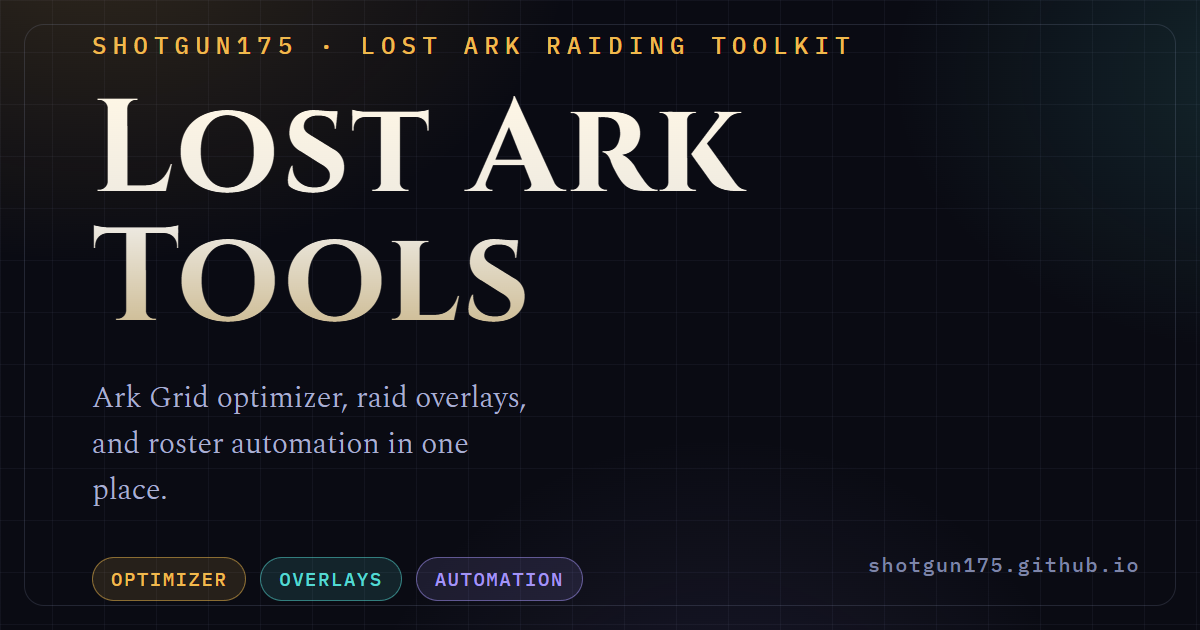
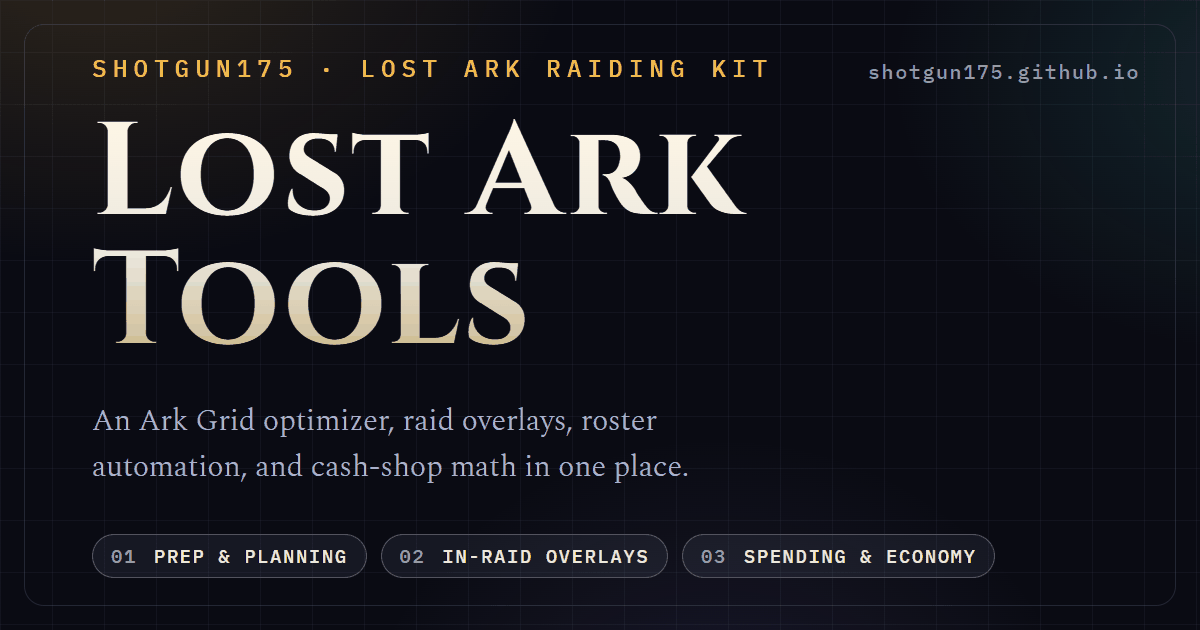
fix: work the validated audit backlog (fonts, CSP, CI, reveal, og-image)
Privacy / independence:
- Self-host the six latin font subsets under fonts/ via @user in
  styles.css (Cinzel is one variable file covering 600/700); preload the
  Cinzel file; drop the render-blocking Google Fonts stylesheet and both
  preconnects. First paint no longer depends on any third-party origin and
  no visitor IP reaches a font CDN.
- Add a Content-Security-Policy meta tag: everything same-origin, a sha256
  hash for the inline no-js/js head script, img-src data: for the film
  grain, base-uri/form-action none.

Link-check workflow:
- Replace the lookbehind grep with a comment-aware html.parser script that
  reads CTA and Source hrefs in any attribute order, skips the commented
  TILE TEMPLATE natively (no example.com filter), requires exactly one CTA
  per tile, and validates every tile's data-mode against the masthead
  legend so a typo fails CI instead of silently wearing the wrong lamp.
- Probe releases/latest links via the GitHub API (the HTML page is 200 even
  with zero releases; the API 404s), authenticated with the job token.
- Add curl retries against transient blips; trigger on push/PR touching
  index.html instead of monthly-only, since main deploys straight to
  production.
- Add permissions: contents: read, pin actions/checkout to the v6.0.3
  commit SHA, and stop persisting credentials in the checkout.

Scroll-reveal robustness:
- If enhance.js never runs after the inline script commits to .js, a CSS
[…]

diff --git a/styles.css b/styles.css
@@ -7,16 +7,67 @@
    an ember-gold + astral-cyan duotone, with console-style mono labels.
    ============================================================ */
 
+/* ---------- self-hosted fonts ----------
+   Latin woff2 subsets served from this repo (fonts/), so first paint never
+   depends on a third-party origin. The Cinzel file is a variable font covering
+   both display weights. Weights match usage below exactly:
+   Cinzel 600/700, IBM Plex Mono 400/500, Spectral 300/400 (no italics). */
+@font-face {
+  font-family: "Cinzel";
+  font-style: normal;
+  font-weight: 600 700;
+  font-display: swap;
+  src: url("fonts/cinzel-600-700.woff2") format("woff2");
+  unicode-range: U+0000-00FF, U+0131, U[phone redacted], U+02BB-02BC, U+02C6, U+02DA, U+02DC, U+0304, U+0308, U+0329, U+2000-206F, U+20AC, U+2122, U+2191, U+2193, U+2212, U+2215, U+FEFF, U+FFFD;
+}
+@font-face {
+  font-family: "IBM Plex Mono";
+  font-style: normal;
+  font-weight: 400;
+  font-display: swap;
+  src: url("fonts/ibm-plex-mono-400.woff2") format("woff2");
+  unicode-range: U+0000-00FF, U+0131, U[phone redacted], U+02BB-02BC, U+02C6, U+02DA, U+02DC, U+0304, U+0308, U+0329, U+2000-206F, U+20AC, U+2122, U+2191, U+2193, U+2212, U+2215, U+FEFF, U+FFFD;
+}
+@font-face {
+  font-family: "IBM Plex Mono";
+  font-style: normal;
+  font-weight: 500;
+  font-display: swap;
+  src: url("fonts/ibm-plex-mono-500.woff2") format("woff2");
+  unicode-range: U+0000-00FF, U+0131, U[phone redacted], U+02BB-02BC, U+02C6, U+02DA, U+02DC, U+0304, U+0308, U+0329, U+2000-206F, U+20AC, U+2122, U+2191, U+2193, U+2212, U+2215, U+FEFF, U+FFFD;
+}
+@font-face {
+  font-family: "Spectral";
+  font-style: normal;
+  font-weight: 300;
+  font-display: swap;
+  src: url("fonts/spectral-300.woff2") format("woff2");
+  unicode-range: U+0000-00FF, U+0131, U[phone redacted], U+02BB-02BC, U+02C6, U+02DA, U+02DC, U+0304, U+0308, U+0329, U+2000-206F, U+20AC, U+2122, U+2191, U+2193, U+2212, U+2215, U+FEFF, U+FFFD;
+}
+@font-face {
+  font-family: "Spectral";
+  font-style: normal;
+  font-weight: 400;
+  font-display: swap;
+  src: url("fonts/spectral-400.woff2") format("woff2");
+  unicode-range: U+0000-00FF, U+0131, U[phone redacted], U+02BB-02BC, U+02C6, U+02DA, U+02DC, U+0304, U+0308, U+0329, U+2000-206F, U+20AC, U+2122, U+2191, U+2193, U+2212, U+2215, U+FEFF, U+FFFD;
+}
+
 :root {
   color-scheme: dark;
 
   /* --- palette ---
      CANONICAL Lost Ark Tools brand palette. The no-build setup means these
-     hexes are also hardcoded in: assets/og-image.html, snippets/hub-badge.html,
-     and favicon.svg (plus the badge copies embedded in the tool repos; see
-     README "Hub badge embeds"). Change a color here -> update those together. */
+     hexes are also hardcoded in: index.html (masthead brand <svg>),
+     assets/og-image.html, snippets/hub-badge.html, and favicon.svg (plus the
+     badge copies embedded in the tool repos; see README "Hub badge embeds").
+     Change a color here -> update those together.
+     Satellite-only shades with no token here: #7e85a8 (dim lattice-node stroke:
+     favicon, index.html masthead mark, og-image URL line), #f2a93a (darker gold
+     gradient stop: favicon only), and #fff7e6 / #c8b487 (wordmark-gradient
+     highlights: styles.css wordmark, index.html masthead mark, favicon,
+     og-image title). */
   --bg:        #0a0b13;   /* obsidian */
-  --bg-2:      #0d0f1d;
   --surface:   #14172a;   /* tile base */
   --surface-2: #1a1e36;
   --line:      rgba(170, 178, 220, 0.14);
@@ -347,7 +398,7 @@ a { color: var(--astral); }
 /* every lamp carries a steady soft glow in its own accent; this is the resting
    state (reduced motion); the breathe animation overrides it otherwise */
 .tile .lamp,
-.legend [data-mode="open"] .lamp--mini {
+.legend [data-mode] .lamp--mini {
   box-shadow: inset 0 0 0 1px color-mix(in srgb, var(--accent) 14%, transparent),
               0 0 10px -2px color-mix(in srgb, var(--accent) 50%, transparent);
 }
@@ -495,6 +546,13 @@ a { color: var(--astral); }
   .js [data-reveal].is-visible { opacity: 1; transform: none; }
   /* stagger the two tiles inside a bank */
   .js .tile[data-reveal]:nth-child(2) { transition-delay: 0.08s; }
+
+  /* rescue: the pre-hide above assumes enhance.js will run. If it never does
+     (its request blocked or failed after the inline script committed to .js),
+     force-show everything after 2.5s. enhance.js stamps <html> with
+     .reveal-ready as its first act, cancelling this before the delay elapses. */
+  .js:not(.reveal-ready) [data-reveal] { animation: reveal-rescue 0.5s ease 2.5s forwards; }
+  @keyframes reveal-rescue { to { opacity: 1; transform: none; } }
 }
 
 @media (prefers-reduced-motion: reduce) {
@@ -504,6 +562,11 @@ a { color: var(--astral); }
     transition-duration: 0.001ms !important;
     scroll-behavior: auto !important;
   }
+}
+
+/* print: never let the scroll-reveal pre-hide drop content from the output */
+@media print {
+  [data-reveal] { opacity: 1 !important; transform: none !important; }
 }
 
 /* ============================================================

diff --git a/assets/og-image.html b/assets/og-image.html
@@ -61,7 +61,7 @@
     font-size: 30px;
     font-weight: 300;
     color: #aab0d2;
-    max-width: 30ch;
+    max-width: 46ch;
   }
   .pills {
     display: flex;
@@ -72,18 +72,27 @@
     letter-spacing: 0.08em;
     text-transform: uppercase;
   }
+  /* Pills mirror the page's three timeline banks. Deliberately neutral:
+     gold/astral/violet encode run modes on the site now, so reusing them
+     as topic tags here would contradict the masthead legend. */
   .pill {
     padding: 9px 18px;
     border-radius: 999px;
-    border: 1px solid;
+    border: 1px solid rgba(170,178,220,0.35);
+    color: #ece8df;
+    background: rgba(170,178,220,0.08);
   }
-  .pill.gold   { color: #f0b94d; border-color: rgba(240,185,77,0.5);  background: rgba(240,185,77,0.12); }
-  .pill.astral { color: #54d8d2; border-color: rgba(84,216,210,0.5);  background: rgba(84,216,210,0.12); }
-  .pill.violet { color: #a394f5; border-color: rgba(163,148,245,0.5); background: rgba(163,148,245,0.12); }
+  .pill b {
+    color: #9298bd;
+    font-weight: 500;
+    margin-right: 4px;
+  }
+  /* top-right corner stamp, opposite the eyebrow; keeps clear of the pills
+     row, which now spans most of the bottom edge */
   .url {
     position: absolute;
     right: 60px;
-    bottom: 52px;
+    top: 58px;
     font-family: "IBM Plex Mono", monospace;
     font-size: 20px;
     letter-spacing: 0.08em;
@@ -92,13 +101,13 @@
 </style>
 </head>
 <body>
-  <div class="eyebrow">shotgun175 &middot; Lost Ark raiding toolkit</div>
+  <div class="eyebrow">shotgun175 &middot; Lost Ark raiding kit</div>
   <div class="title">Lost&nbsp;Ark Tools</div>
-  <div class="lede">Ark Grid optimizer, raid overlays, and roster automation in one place.</div>
+  <div class="lede">An Ark Grid optimizer, raid overlays, roster automation, and cash-shop math in one place.</div>
   <div class="pills">
-    <span class="pill gold">Optimizer</span>
-    <span class="pill astral">Overlays</span>
-    <span class="pill violet">Automation</span>
+    <span class="pill"><b>01</b> Prep &amp; planning</span>
+    <span class="pill"><b>02</b> In-raid overlays</span>
+    <span class="pill"><b>03</b> Spending &amp; economy</span>
   </div>
   <div class="url">shotgun175.github.io</div>
 </body>

diff --git a/index.html b/index.html
@@ -5,6 +5,13 @@
   <meta name="viewport" content="width=device-width, initial-scale=1" />
   <meta name="color-scheme" content="dark" />
 
+  <!-- Defense-in-depth: everything the page loads is same-origin (plus the
+       data: film-grain texture in styles.css). The sha256 source is the hash
+       of the inline no-js/js script below; if that script changes AT ALL,
+       recompute the hash or the scroll-reveal silently dies (page stays
+       usable, but check the console for CSP violations after edits). -->
+  <meta http-equiv="Content-Security-Policy" content="default-src 'self'; style-src 'self'; font-src 'self'; img-src 'self' data:; script-src 'self' 'sha256-9h4+QNjOt3CgNFpdn6iqbeII0Hyi4PqjGT1QhTZFYlc='; base-uri 'none'; form-action 'none'" />
+
   <!-- ============================================================
        Lost Ark Tools: static hub page. No framework, no build.
        Command deck: tools grouped into three raid-timeline banks,
@@ -43,13 +50,12 @@
   <link rel="icon" type="image/png" sizes="32x32" href="favicon-32.png" />
   <link rel="apple-touch-icon" href="apple-touch-icon.png" />
 
-  <!-- Fonts: distinctive display serif + readable text serif + console mono.
-       Fallback stacks keep the page legible if the request fails. -->
-  <link rel="preconnect" href="https://fonts.googleapis.com" />
-  <link rel="preconnect" href="https://fonts.gstatic.com" crossorigin />
-  <!-- Weights limited to what styles.css actually uses: Cinzel 600/700,
-       mono 400/500, Spectral 300/400 (no italics). -->
-  <link rel="stylesheet" href="https://fonts.googleapis.com/css2?family=Cinzel:wght@600;700&family=IBM+Plex+Mono:wght@400;500&family=Spectral:wght@300;400&display=swap" />
+  <!-- Fonts are self-hosted (fonts/, declared via @font-face in styles.css),
+       so first paint never waits on a third-party origin and no visitor IP
+       leaks to a font CDN. Fallback stacks keep the page legible if a file
+       fails. Preload the Cinzel variable file: it draws the wordmark and every
+       bank/tile title. -->
+  <link rel="preload" href="fonts/cinzel-600-700.woff2" as="font" type="font/woff2" crossorigin />
 
   <link rel="stylesheet" href="styles.css" />
 
@@ -67,7 +73,7 @@
       <span class="masthead__glow" aria-hidden="true"></span>
 
       <div class="masthead__top">
-        <span class="brand">
+        <div class="brand">
           <svg class="brand__mark" viewBox="0 0 32 32" aria-hidden="true">
             <rect width="32" height="32" rx="7" fill="#0a0b13"/>
             <rect x="0.75" y="0.75" width="30.5" height="30.5" rx="6.25" fill="none" stroke="#54d8d2" stroke-opacity="0.28"/>
@@ -82,7 +88,7 @@
             <circle cx="16" cy="16" r="4.6" fill="none" stroke="#fff7e6" stroke-opacity="0.5"/>
           </svg>
           <h1 class="wordmark">Lost&nbsp;Ark Tools</h1>
-        </span>
+        </div>
         <p class="masthead__eyebrow">shotgun175 · Lost Ark raiding kit</p>
       </div>
 
@@ -114,7 +120,7 @@
         </ul>
         <p class="status">
           <span class="status__pip" aria-hidden="true"></span>
-          <span title="Every outbound tool link is verified monthly by an automated link-check job">All links checked monthly</span>
+          <span>Tool links CI-checked monthly</span>
         </p>
       </div>
     </header>

diff --git a/enhance.js b/enhance.js
@@ -3,11 +3,17 @@
  * The page is fully usable without this file. Every tile is visible by default;
  * an inline <head> script flips <html> from .no-js to .js before first paint, and
  * the stylesheet only pre-hides [data-reveal] elements under `.js` + no
- * reduced-motion preference. So with JS disabled — or reduced motion requested —
- * nothing is ever hidden. No dependencies, no tracking.
+ * reduced-motion preference. So with JS disabled, or reduced motion requested,
+ * nothing is ever hidden. If this file itself fails to load after the inline
+ * script ran, a CSS rescue animation force-shows everything after 2.5s (see
+ * .reveal-ready in styles.css). No dependencies, no tracking.
  */
 (function () {
   "use strict";
+
+  // Cancel the CSS rescue timer first: styles.css force-shows [data-reveal]
+  // after 2.5s unless this class proves the reveal code actually ran.
+  document.documentElement.classList.add("reveal-ready");
 
   var items = Array.prototype.slice.call(document.querySelectorAll("[data-reveal]"));
   if (!items.length) return;

diff --git a/README.md b/README.md
@@ -16,6 +16,7 @@ This repository is the GitHub Pages root for the `shotgun175` account
 | `index.html` | The hub page: masthead, three timeline banks of tool tiles, footer. |
 | `styles.css` | The design system (palette, type, run-mode lamps, responsive layout, focus + reduced-motion). |
 | `enhance.js` | Optional scroll-reveal enhancement. The page works fully without it. |
+| `fonts/` | Self-hosted latin woff2 subsets of the three typefaces, declared via `@font-face` in `styles.css`. |
 | `favicon.svg` | Site icon (the Ark-Grid lattice mark). |
 | `favicon-32.png` | 32x32 raster fallback for browsers/crawlers that ignore SVG icons. |
 | `og-image.png` | 1200x630 social preview image. |
@@ -60,7 +61,14 @@ This repository is the GitHub Pages root for the `shotgun175` account
      in (it stays visible with JavaScript off).
 4. Adding a brand-new `data-mode`? Add a matching `--accent` rule in `styles.css`
    (search for `data-mode`) and a `<li>` entry in the `.legend` list in
-   `index.html`.
+   `index.html`. The link-check CI validates every tile's `data-mode` against
+   the legend, so a typo'd mode fails the next run instead of silently wearing
+   the wrong lamp colour.
+5. If the tool changes the hub's headline roster: update the three head meta
+   descriptions in `index.html` (`description`, `og:description`,
+   `twitter:description`) that name the tools, then update the lede in
+   `assets/og-image.html` and re-export `og-image.png` (recipe below), so
+   social shares do not contradict the page.
 
 That is the whole process, no build, no install. Serve the folder (see below) to
 preview.
@@ -76,10 +84,25 @@ python -m http.server 8000
 
 ## Regenerating the social image
 
-`og-image.png` is rendered from `assets/og-image.html`. To update it, edit that
-file, open it in a browser sized to exactly 1200x630, and export a 1200x630 PNG
-(any headless-browser screenshot tool works). Keep the dimensions exact - the
-`og:image:width` / `og:image:height` meta tags in `index.html` declare 1200x630.
+`og-image.png` is rendered from `assets/og-image.html`. Edit that file, then
+re-export deterministically from the repo root (both paths must be absolute;
+Chrome ignores relative ones):
+
+```sh
+# 1. Render at exactly 1200x630, device scale 1 (git-bash shown; any Chromium works)
+"/c/Program Files (x86)/Google/Chrome/Application/chrome.exe" --headless \
+  "--screenshot=$(pwd -W)/og-render.png" --window-size=1200,630 \
+  --force-device-scale-factor=1 --hide-scrollbars --virtual-time-budget=8000 \
+  "file:///$(pwd -W)/assets/og-image.html"
+
+# 2. Compress to a 256-color palette PNG (needs Pillow), then drop the intermediate
+python -c "from PIL import Image; Image.open('og-render.png').convert('RGB').quantize(colors=256, dither=Image.Dither.FLOYDSTEINBERG).save('og-image.png', optimize=True)"
+rm og-render.png
+```
+
+Keep the dimensions exact - the `og:image:width` / `og:image:height` meta tags
+in `index.html` declare 1200x630 - and keep the result under ~100 KB (the
+palette step above takes it from ~210 KB to ~77 KB with no visible loss).
 
 ## Deploying (GitHub Pages from a branch)
 
@@ -102,7 +125,7 @@ embed it; when the badge changes, refresh these copies:
 
 | Tool | Where the badge lives |
 | --- | --- |
-| ArkGrid Optimizer | `src/lib/HubBadge.svelte` (rendered by `src/components/Footer/Footer.svelte`) |
+| ArkGrid Optimizer | `src/components/shared/HubBadge.svelte` (rendered by `src/components/Footer/Footer.svelte`) |
 | Raid Mech Announcer | `src/lib/components/HubBadge.svelte` (Settings → About) |
 | Dark Rotation Manager | bottom-bar link in `modules/gui_app.py` + a `README.md` line |
 | Bible Roster Updater | `README.md` line (CLI, no UI) |
@@ -114,12 +137,16 @@ from the snippet (each copy carries a "synced from …" origin comment).
 
 ## Notes
 
-- Fonts (Cinzel, Spectral, IBM Plex Mono) load from Google Fonts with system
-  fallbacks, so the page stays legible if that request fails.
-- **Changing brand colors: update these 4 files together.** The `:root` token
+- Fonts (Cinzel, Spectral, IBM Plex Mono) are self-hosted from `fonts/` via
+  `@font-face` in `styles.css`, so first paint never depends on a third-party
+  origin and no visitor IP goes to a font CDN. System fallback stacks keep the
+  page legible if a file fails. (`assets/og-image.html` still pulls Google
+  Fonts; it is only ever rendered manually, never served to visitors.)
+- **Changing brand colors: update these 5 files together.** The `:root` token
   block in `styles.css` is the canonical Lost Ark Tools palette; the same hexes
-  are hardcoded (no-build constraint) in `assets/og-image.html`,
-  `snippets/hub-badge.html`, and `favicon.svg`. The badge copies embedded in
-  the tool repos (see the table above) carry the same hexes too.
+  are hardcoded (no-build constraint) in `index.html` (the masthead brand
+  `<svg>`), `assets/og-image.html`, `snippets/hub-badge.html`, and
+  `favicon.svg`. The badge copies embedded in the tool repos (see the table
+  above) carry the same hexes too.
 - No backend, no analytics, no tracking.
 - This is a fan project and is not affiliated with Smilegate RPG or Amazon Games.